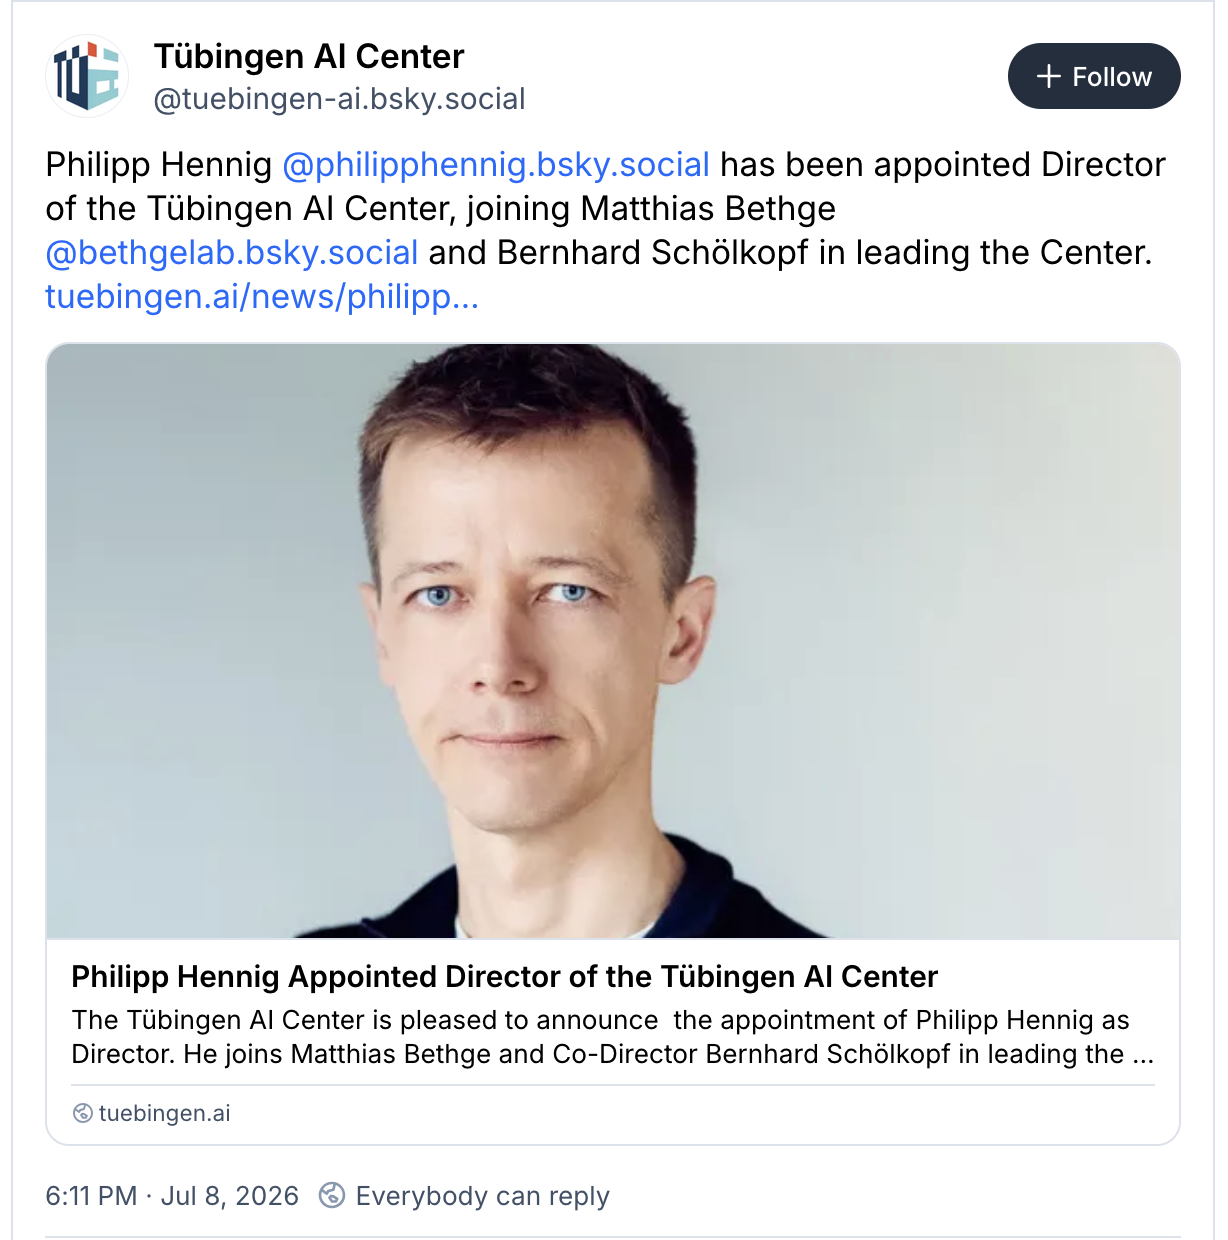
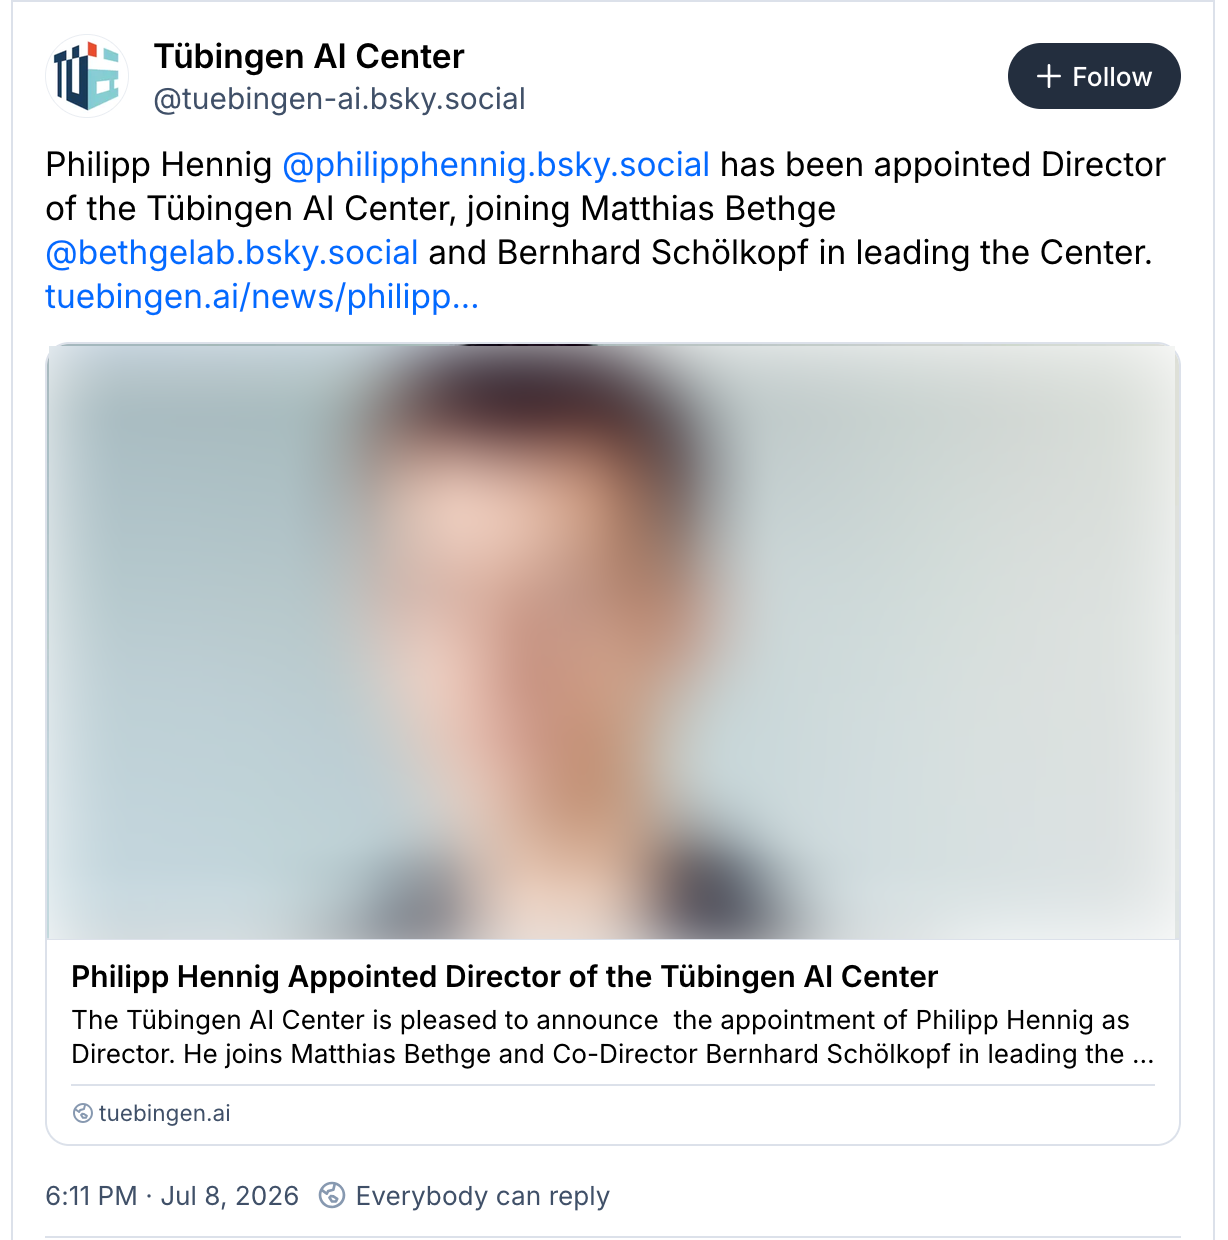
Built site for gh-pages

diff --git a/posts/Wayback.html b/posts/Wayback.html
@@ -165,11 +165,11 @@ gtag('config', 'G-5TD5B2PHN7', { 'anonymize_ip': true});
 
 
 <p>In the past days I bacame aware of this PR announcement from Tuebingen AI account regarding an additional new memeber in their directorship.</p>
-<p>Notice the time of the post: 6:11 PM 8 July 2026.</p>
-<p><img src="images/bluesky_tueai.png" class="img-fluid" width="750"></p>
+<p>Notice the time of the post: <strong>6:11 PM 8 July 2026.</strong></p>
+<p><img src="images/bluesky_tueai.png" class="img-fluid" width="250"></p>
 <p>Some hours earlier, I had posted on bluesky this post, announcing the presentation of my posters at the ICML conference</p>
-<p>Notice the time of the post: 5:22 AM 8 July 2026.</p>
-<p><img src="images/bluesky_myICML.png" class="img-fluid" width="750"></p>
+<p>Notice the time of the post: <strong>5:22 AM 8 July 2026.</strong></p>
+<p><img src="images/bluesky_myICML.png" class="img-fluid" width="250"></p>
 <p>Incidentally, the paper I was presenting in the main conference (which was the last paper from my PhD thesis that has been rejected for a year from all the big conferences), was relying heavily on a framework developed by Georgios Arvanitidis in the lab of this newly announced director in Tuebingen AI center. And I was and am as grateful as I couldn’t ever be, that this framework existed when I needed (and I stumbled upon it), because otherwise I would have to develop it from scratch or use some other approaches that didn’t work so well for constructing geodesics on empirical manifolds. At some point when I was writting this last chapter of my thesis and the associated workshop paper, I though to reach out to the authors to ask whether they would be willing to collaborate on this with me or be on my paper (given that I have been using their code), but given their connection to Tuebingen, I didn’t, and finished the framework alone, and only cited the work and thanked Georgios for keeping a well maintained repository that was easy to integrate with the rest of my framework.</p>
 <p>Now this might seem just like a random coincidence, that at that day Tuebingen AI announced the new director, who happened to be the senior author of a paper that was instrucmental for my last PhD project.</p>
 <p>Of course since Tuebingen AI and other accounts connected to Matthias Bethge are blocked from my bluesky account due to the problems he keeps creating for my carrer for years now (for reasons he only knows…), I had absolute ingorance up until the last days about the game of impression management he has been playing.</p>

diff --git a/index.html b/index.html
@@ -274,7 +274,7 @@ Dimitra Maoutsa
 </a>
 </div>
 </div>
-<div class="quarto-post image-right" data-index="2" data-categories="bmV3cw==" data-listing-date-sort="1790114400000" data-listing-file-modified-sort="1793419657589" data-listing-date-modified-sort="NaN" data-listing-reading-time-sort="3" data-listing-word-count-sort="594">
+<div class="quarto-post image-right" data-index="2" data-categories="bmV3cw==" data-listing-date-sort="1790114400000" data-listing-file-modified-sort="1793419914936" data-listing-date-modified-sort="NaN" data-listing-reading-time-sort="3" data-listing-word-count-sort="594">
 <div class="thumbnail"><a href="./posts/Wayback.html" class="no-external">
 
 <img loading="lazy" src="./posts/images/neurips_logo.jpg" class="thumbnail-image">
